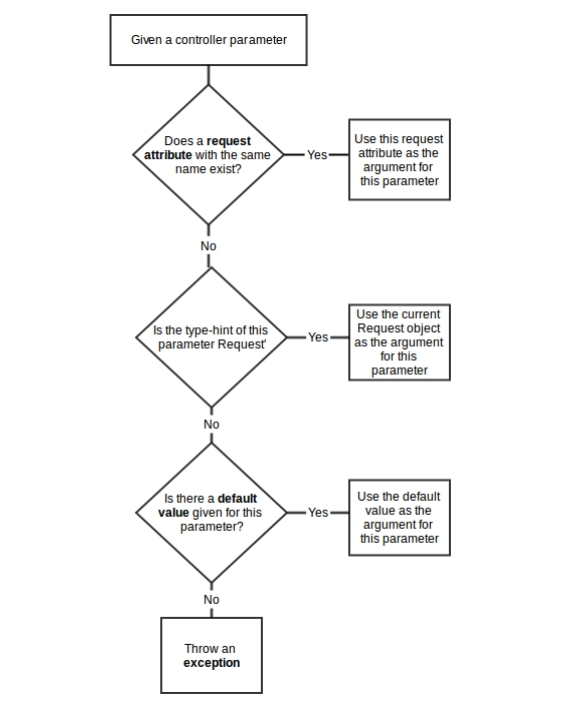
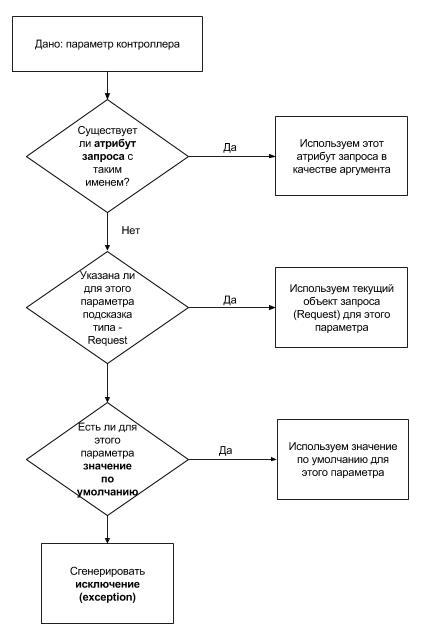
Chapter 1 - part 1, part 2

diff --git a/manuscript/04.2_events_leading_to_response.md b/manuscript/04.2_events_leading_to_response.md
@@ -311,14 +311,11 @@ private function handleRaw(Request $request, $type = self::MASTER_REQUEST)
 }
 ```
 
-As you may remember from the Symfony documentation, a controller should return a Response
-object. If it doesn’t, some other part of the application should be able to convert the return value to
-a Response object in some way or another.
+Как вы можете помнить из документации Symfony, контроллер должен возвращать объект `Response`. Если же контроллер этого не сделал, какая-то другая часть приложения должна иметь возможность конвертировать возвращаемое значение в объект `Response` тем или иным образом.
 
 ### 2.6 Вход в слой представления (view)
 
-When you choose to return a Response object directly from your controller, you can thereby
-effectively by-pass the templating engine:
+Если вы решили вернуть из вашего контроллера объект `Response`, вы можете таким образом срезать угол и обойти шаблонизатор, например вернув уже готовую HTML разметку:
 
 ```php
 class SomeController
@@ -332,12 +329,7 @@ class SomeController
 }
 ```
 
-However, when you return anything else (though usually an array of template variables), this
-return value needs to be converted to a Response object before it can be used as a decent response to
-be sent back to the client. The HttpKernel is explicitly not coupled to a specific templating engine
-like Twig. Instead it uses the event dispatcher again to allow any listener to the KernelEvents::VIEW
-event (kernel.view) to set a proper response based on the return value of the controller (though it
-may choose to ignore this value entirely):
+Тем не менее, когда вы вернёте что-нибудь другое (как правило - массив с переменными рендеринга для шаблона), возвращаемое значение нужно конвертировать в объект `Response`, прежде чем он будет использован в качестве результата, которые будет отправлен на клиент (в браузер пользователя). Ядро `HttpKernel` не привязано ни к какому конкретному шаблонизатору, типа `Twig`. Вместо этого оно использует диспетчер событий (event dispatcher), чтобы позволить любому слушателю события `KernelEvents::VIEW` (kernel.view) создать правильный ответ, основанный на значении, которое вернул контроллер (даже если он полностью проигнорирует это значение):
 
 ```php
 use Symfony\Component\HttpKernel\Event\GetResponseForControllerResultEvent;
@@ -364,15 +356,14 @@ private function handleRaw(Request $request, $type = self::MASTER_REQUEST)
     }
 
     if (!$response instanceof Response) {
-        // the kernel REALLY needs a response by now
+        // тут ядру ОООООЧЧЧЕНЬ нужен ответ...
 
         throw new \LogicException(...);
     }
 }
 ```
 
-Listeners to this event can call setResponse() on the GetResponseForControllerResultEvent
-object:
+Слушатели этого события могут использовать метод `setResponse()` объекта события `GetResponseForControllerResultEvent`:
 
 ```php
 use Symfony\Component\HttpKernel\Event\GetResponseForControllerResultEvent;
@@ -390,16 +381,14 @@ class ViewListener
 
 #### Примечательные слушатели события kernel.view
 
-The TemplateListener from the SensioFrameworkExtraBundle takes the controller result and uses
-it as template variables to render the template that was specified using the @Template annotation
-(which was stored as the request attribute _template):
+Слушатель `TemplateListener` из арсенала `SensioFrameworkExtraBundle` получает значение, которое вернул контроллер и использует его в частве переменных для рендеринга шаблона, который должен быть указан при помощи аннотации `@Template` (храниться это значение будет в атрибуте запроса `_template`):
 
 ```php
 public function onKernelView(GetResponseForControllerResultEvent $event)
 {
     $parameters = $event->getControllerResult();
 
-    // get the templating engine
+    // получаем движок шаблонизатора
     $templating = ...;
 
     $event->setResponse(
@@ -410,9 +399,7 @@ public function onKernelView(GetResponseForControllerResultEvent $event)
 
 ### 2.7 Фильтрация ответа
 
-In the end, right before returning the Response object as the final result of handling the given
-Request object, any listener for the KernelEvents::RESPONSE event (kernel.response) will be
-notified:
+Ну и в самом конце, прямо перед тем, как вернуть объект `Response` в качестве финального результата обработки текущего объекта запроса `Request`, будет уведомлен любой слушатель события `KernelEvents::RESPONSE` (kernel.response):
 
 ```php
 private function handleRaw(Request $request, $type = self::MASTER_REQUEST)
@@ -421,7 +408,7 @@ private function handleRaw(Request $request, $type = self::MASTER_REQUEST)
     // определяем контроллер при помощи controller resolver
     // событие "kernel.controller"
     // используем controller resolver для того, чтобы получить аргументы контроллера
-    // convert the controller result to a Response object
+    // конвертируем рещультат, который вернул запрос в объект Response
 
     return $this->filterResponse($response, $request, $type);
 }
@@ -436,7 +423,7 @@ private function filterResponse(Response $response, Request $request, $type)
 }
 ```
 
-Event listeners are allowed to modify the Response object and even to replace it completely:
+Слушатели события могут модифицировать объет оответа `Response` и даже полностью его заменить:
 
 ```php
 class ResponseListener
@@ -456,12 +443,7 @@ class ResponseListener
 
 #### Notable kernel.response listeners
 
-The WebDebugToolbarListener from the WebProfilerBundle injects some HTML and JavaScript
-code at the end of the response to make sure the profiler toolbar appears (usually at the bottom of
-the page). 
+Слушатель `WebDebugToolbarListener` из комплекта инструментов бандла `WebProfilerBundle` внедряет HTML и JavaScript код в конце ответа, для того, чтобы панель профайлера отобразилась (как правило, в конце страницы). 
 
-The ContextListener from the Symfony Security Component stores a serialized version of the
-current security token in the session. This allows for a much faster authentication process during the
-next request. The Security Component also has a ResponseListener that sets a cookie containing
-“remember-me” information. Its contents can be used to auto-login a user even when his original
-session was already destroyed
+Слушатель `ContextListener` из компонента `Symfony Security Component` сохраняет сериализованную версию токена безопасонсти в сессии. Это позволяет ускорить процесс аутентификации при следующем запросе. В компонент `Security Component` также входит слушатель `ResponseListener`, который устанавливает cookie, который содержит информацию о 
+`remember-me`. Содержимое этого cookie может быть использовано для авто-логина пользователя, даже если оригинальная сессия уже была завершена.

diff --git a/manuscript/04.0_journey_from_request_to_response.md b/manuscript/04.0_journey_from_request_to_response.md
@@ -1,1 +1,1 @@
-# Часть I: Путешествие от запроса до ответа
+# Часть I: От запроса до ответа
